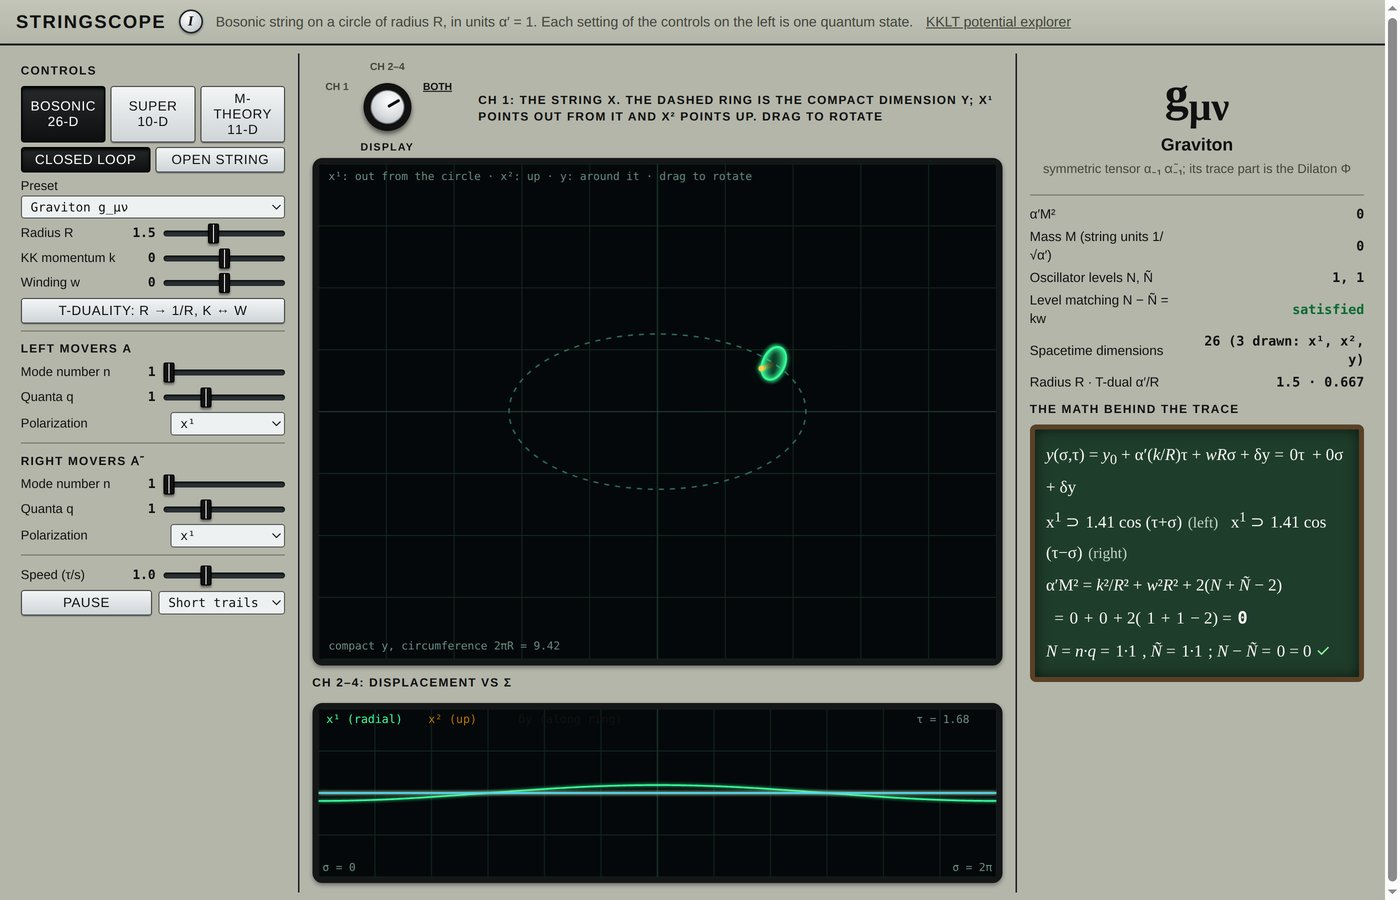
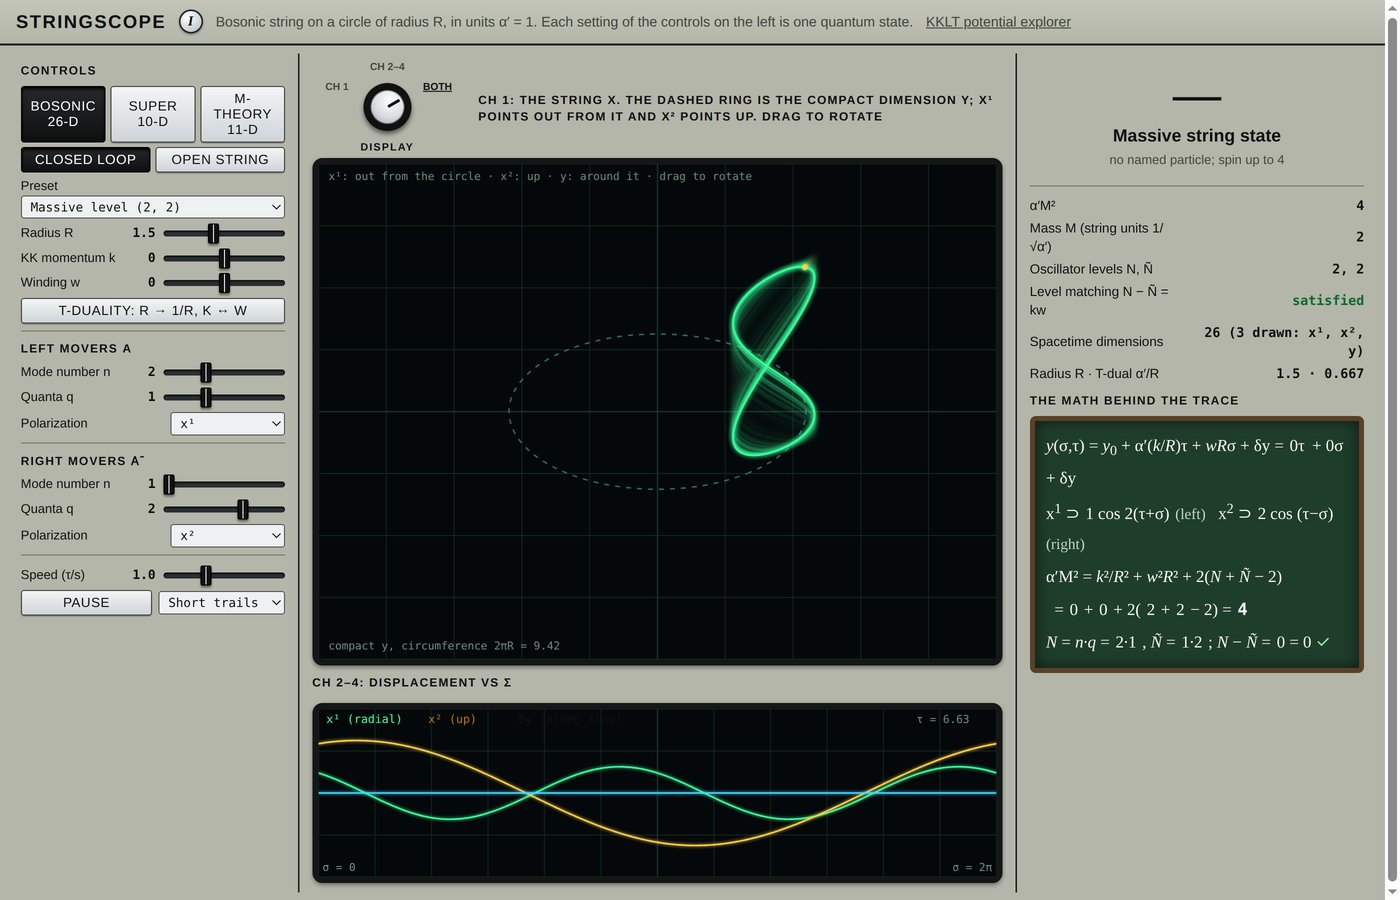
Models page: StringScope screenshot on Massive level (2, 2)

diff --git a/models.html b/models.html
@@ -51,7 +51,7 @@
     </section>
 
     <section class="model" id="string-scope">
-        <a href="/KKLT_String_Cosmology/src/UI/string_scope.html"><img src="store/model-string-scope.jpg?v=293629f5" alt="StringScope: the graviton as a closed string on a compact circle, with the DISPLAY knob, the displacement trace and the chalkboard maths" width="1400" height="900" loading="lazy"></a>
+        <a href="/KKLT_String_Cosmology/src/UI/string_scope.html"><img src="store/model-string-scope.jpg?v=9a8f7808" alt="StringScope: a closed string at massive level (2, 2) tracing a figure eight beside a compact circle, with the DISPLAY knob, the displacement trace and the chalkboard maths" width="1400" height="900" loading="lazy"></a>
         <h2><a href="/KKLT_String_Cosmology/src/UI/string_scope.html">StringScope: vibrating string states</a></h2>
         <p>
             An oscilloscope for vibrating strings, styled after the HP 1205B. Switch between the bosonic
